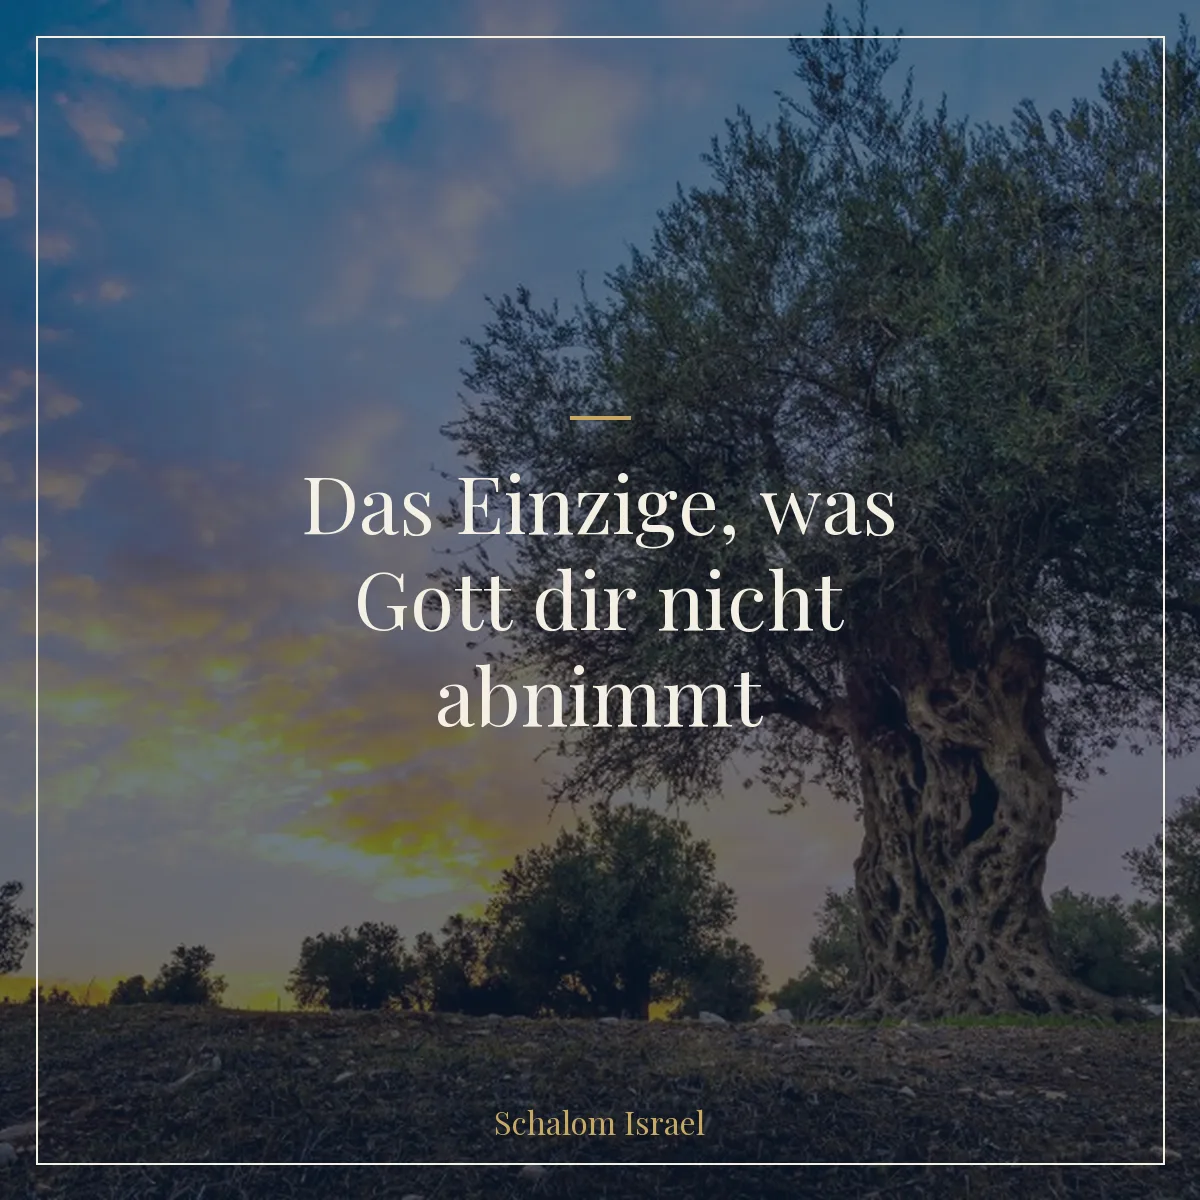
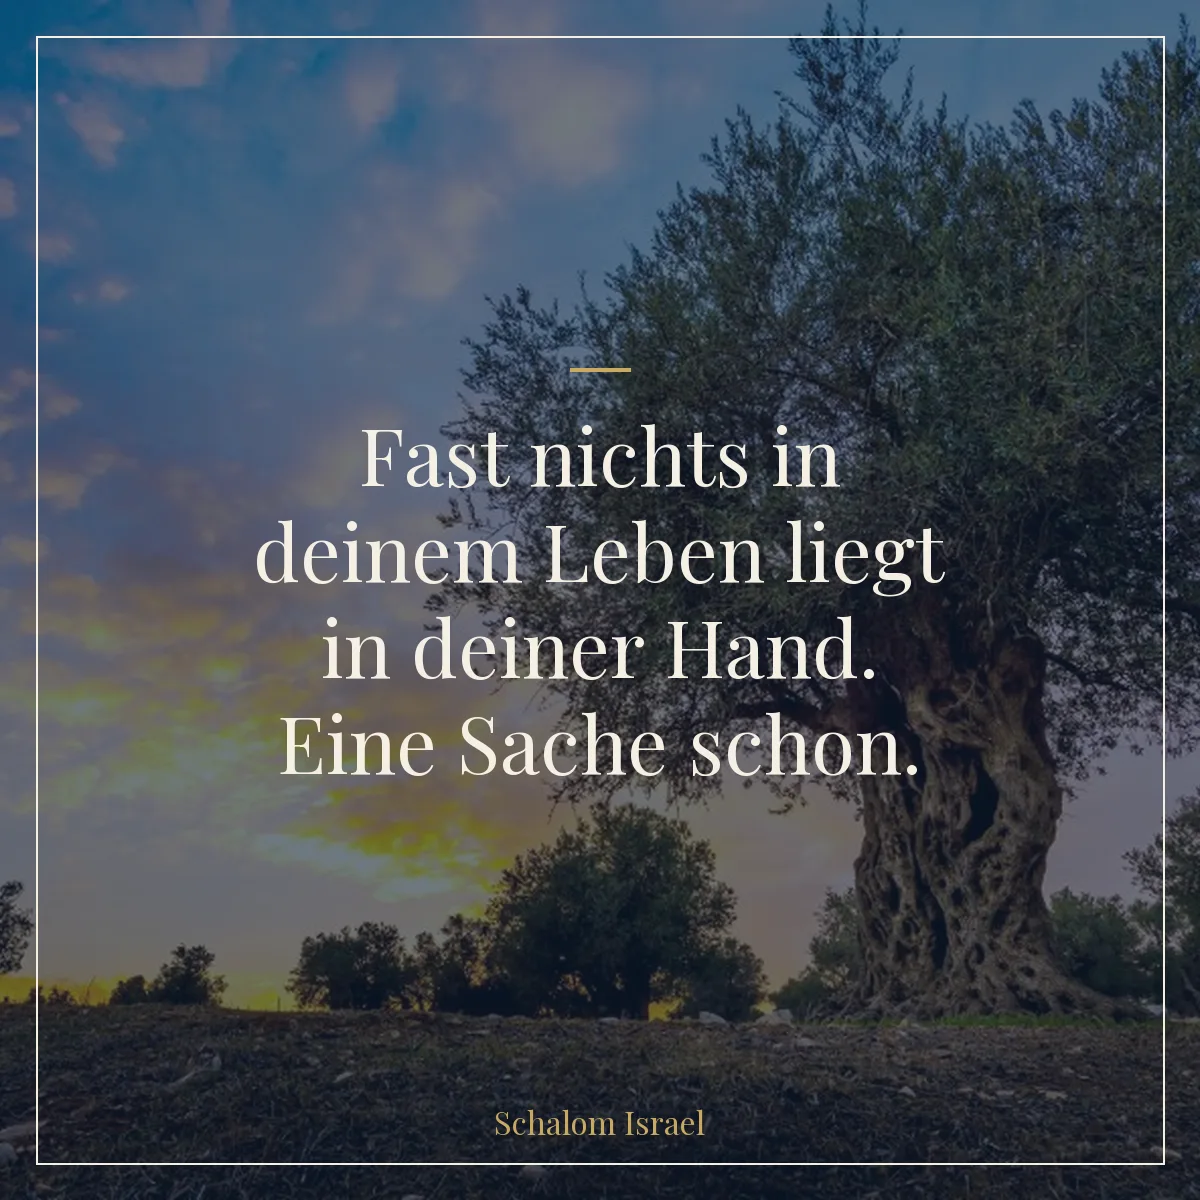
feat(si): neuer Titel Eikev-Artikel (Fast nichts liegt in deiner Hand)

Changed region(s): [[0.2158, 0.3392, 0.8017, 0.6475]]

diff --git a/das-einzige-in-deiner-hand/index.html b/das-einzige-in-deiner-hand/index.html
@@ -4,9 +4,9 @@
   <meta charset="UTF-8">
   <link rel="icon" type="image/svg+xml" href="/favicon.svg">
   <meta name="viewport" content="width=device-width, initial-scale=1.0">
-  <title>Das Einzige, was Gott dir nicht abnimmt – Schalom Israel</title>
+  <title>Fast nichts in deinem Leben liegt in deiner Hand. Eine Sache schon. – Schalom Israel</title>
   <meta name="description" content="Was fordert Gott eigentlich von dir? Nur eines, sagt die Tora. Und der Talmud stutzt: Ist das etwa wenig? Über einen kleinen Vers in Eikev, der die Grenze zieht zwischen dem, was Gott entscheidet, und dem Einzigen, das er in deine Hand legt.">
-  <meta property="og:title" content="Das Einzige, was Gott dir nicht abnimmt">
+  <meta property="og:title" content="Fast nichts in deinem Leben liegt in deiner Hand. Eine Sache schon.">
   <meta property="og:description" content="Was fordert Gott eigentlich von dir? Nur eines, sagt die Tora. Und der Talmud stutzt: Ist das etwa wenig? Über einen kleinen Vers in Eikev, der die Grenze zieht zwischen dem, was Gott entscheidet, und dem Einzigen, das er in deine Hand legt.">
   <meta property="og:image" content="https://www.schalomisrael.de/bilder/share/das-einzige-in-deiner-hand.webp">
   <meta property="og:url" content="https://www.schalomisrael.de/das-einzige-in-deiner-hand/">
@@ -22,7 +22,7 @@
   {
   "@context": "https://schema.org",
   "@type": "Article",
-  "headline": "Das Einzige, was Gott dir nicht abnimmt",
+  "headline": "Fast nichts in deinem Leben liegt in deiner Hand. Eine Sache schon.",
   "description": "Was fordert Gott eigentlich von dir? Nur eines, sagt die Tora. Und der Talmud stutzt: Ist das etwa wenig? Über einen kleinen Vers in Eikev, der die Grenze zieht zwischen dem, was Gott entscheidet, und dem Einzigen, das er in deine Hand legt.",
   "image": "https://www.schalomisrael.de/bilder/share/das-einzige-in-deiner-hand.webp",
   "datePublished": "2026-07-31",
@@ -65,7 +65,7 @@
     {
       "@type": "ListItem",
       "position": 3,
-      "name": "Das Einzige, was Gott dir nicht abnimmt"
+      "name": "Fast nichts in deinem Leben liegt in deiner Hand. Eine Sache schon."
     }
   ]
 }
@@ -84,7 +84,7 @@
         <span class="meta-divider">·</span>
         <span class="article-reading-time" data-reading-time>… Min Lesezeit</span>
       </div>
-      <h1 class="article-hero-title">Das Einzige, was Gott dir nicht abnimmt</h1>
+      <h1 class="article-hero-title">Fast nichts in deinem Leben liegt in deiner Hand. Eine Sache schon.</h1>
     </div>
   </header>
   <nav class="breadcrumb" aria-label="Brotkrumen-Navigation">
@@ -114,7 +114,7 @@
       <p>In der Paraschah dieser Woche gibt Gott die Antwort. Und sie ist ein einziger Satz, in dem ein kleines Wort steckt, über das fast jeder hinwegliest.</p>
 
       <figure class="article-share-img">
-        <img src="/bilder/share/das-einzige-in-deiner-hand.webp" alt="Das Einzige, was Gott dir nicht abnimmt" loading="lazy" width="1200" height="1200">
+        <img src="/bilder/share/das-einzige-in-deiner-hand.webp" alt="Fast nichts in deinem Leben liegt in deiner Hand. Eine Sache schon." loading="lazy" width="1200" height="1200">
       </figure>
 
       <blockquote>

diff --git a/themen/heiligkeit-im-alltag/index.html b/themen/heiligkeit-im-alltag/index.html
@@ -139,7 +139,7 @@
         "@type": "ListItem",
         "position": 1,
         "url": "https://www.schalomisrael.de/das-einzige-in-deiner-hand/",
-        "name": "Das Einzige, was Gott dir nicht abnimmt"
+        "name": "Fast nichts in deinem Leben liegt in deiner Hand. Eine Sache schon."
       },
       {
         "@type": "ListItem",
@@ -223,11 +223,11 @@
     <div class="container">
       <article class="article-card" data-parasha="eikev" data-book="dewarim">
         <a href="/das-einzige-in-deiner-hand/" class="article-image-link">
-          <img src="/bilder/share/das-einzige-in-deiner-hand.webp" alt="Das Einzige, was Gott dir nicht abnimmt" class="article-image">
+          <img src="/bilder/share/das-einzige-in-deiner-hand.webp" alt="Fast nichts in deinem Leben liegt in deiner Hand. Eine Sache schon." class="article-image">
         </a>
         <div class="article-body">
           <p class="article-author">Micha Levzion</p>
-          <h3 class="article-title"><a href="/das-einzige-in-deiner-hand/">Das Einzige, was Gott dir nicht abnimmt</a></h3>
+          <h3 class="article-title"><a href="/das-einzige-in-deiner-hand/">Fast nichts in deinem Leben liegt in deiner Hand. Eine Sache schon.</a></h3>
           <p class="article-excerpt">Was fordert Gott eigentlich von dir? Nur eines, sagt die Tora. Ein Vers aus Eikev über die Grenze zwischen dem, was der Himmel entscheidet, und dem Einzigen, das er in deine Hand legt.</p>
           <a href="/das-einzige-in-deiner-hand/" class="btn btn--outline">Beitrag lesen</a>
         </div>

diff --git a/blog/index.html b/blog/index.html
@@ -253,11 +253,11 @@
 
       <article class="article-card" data-parasha="eikev" data-book="dewarim">
         <a href="/das-einzige-in-deiner-hand/" class="article-image-link">
-          <img src="../bilder/share/das-einzige-in-deiner-hand.webp" alt="Das Einzige, was Gott dir nicht abnimmt" class="article-image">
+          <img src="../bilder/share/das-einzige-in-deiner-hand.webp" alt="Fast nichts in deinem Leben liegt in deiner Hand. Eine Sache schon." class="article-image">
         </a>
         <div class="article-body">
           <p class="article-author">Micha Levzion</p>
-          <h3 class="article-title"><a href="/das-einzige-in-deiner-hand/">Das Einzige, was Gott dir nicht abnimmt</a></h3>
+          <h3 class="article-title"><a href="/das-einzige-in-deiner-hand/">Fast nichts in deinem Leben liegt in deiner Hand. Eine Sache schon.</a></h3>
           <p class="article-excerpt">Was fordert Gott eigentlich von dir? Nur eines, sagt die Tora, „nichts als" ihn zu fürchten. Und der Talmud stutzt: Ist das etwa wenig? Ein kleiner Vers aus Eikev zieht die Grenze zwischen dem, was der Himmel entscheidet, und dem Einzigen, das er in deine Hand legt.</p>
           <a href="/das-einzige-in-deiner-hand/" class="btn btn--outline">Beitrag lesen</a>
         </div>

diff --git a/index.html b/index.html
@@ -198,11 +198,11 @@
 
       <article class="article-card">
         <a href="/das-einzige-in-deiner-hand/" class="article-image-link">
-          <img src="bilder/share/das-einzige-in-deiner-hand.webp" alt="Das Einzige, was Gott dir nicht abnimmt" width="1200" height="1200" loading="lazy" class="article-image">
+          <img src="bilder/share/das-einzige-in-deiner-hand.webp" alt="Fast nichts in deinem Leben liegt in deiner Hand. Eine Sache schon." width="1200" height="1200" loading="lazy" class="article-image">
         </a>
         <div class="article-body">
           <p class="article-author">Micha Levzion</p>
-          <h3 class="article-title"><a href="/das-einzige-in-deiner-hand/">Das Einzige, was Gott dir nicht abnimmt</a></h3>
+          <h3 class="article-title"><a href="/das-einzige-in-deiner-hand/">Fast nichts in deinem Leben liegt in deiner Hand. Eine Sache schon.</a></h3>
           <p class="article-excerpt">Was fordert Gott eigentlich von dir? Nur eines, sagt die Tora. Und der Talmud stutzt: Ist das etwa wenig? Ein Vers aus Eikev über die Grenze zwischen dem, was der Himmel entscheidet, und dem Einzigen, das er dir überlässt.</p>
           <a href="/das-einzige-in-deiner-hand/" class="btn btn--outline">Beitrag lesen</a>
         </div>
